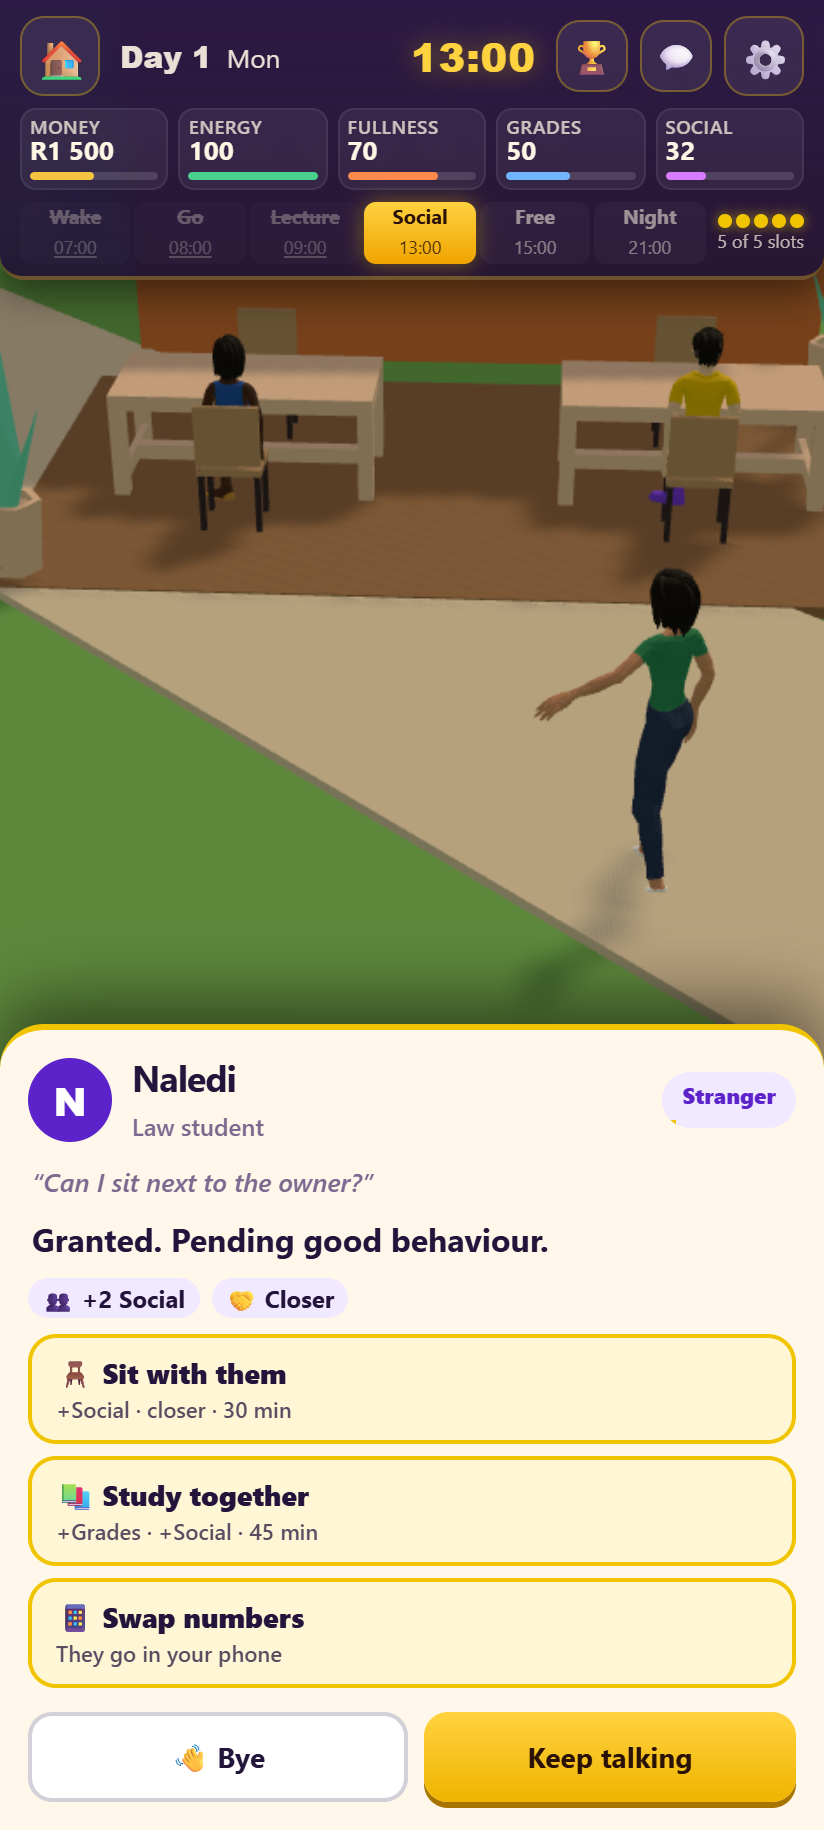
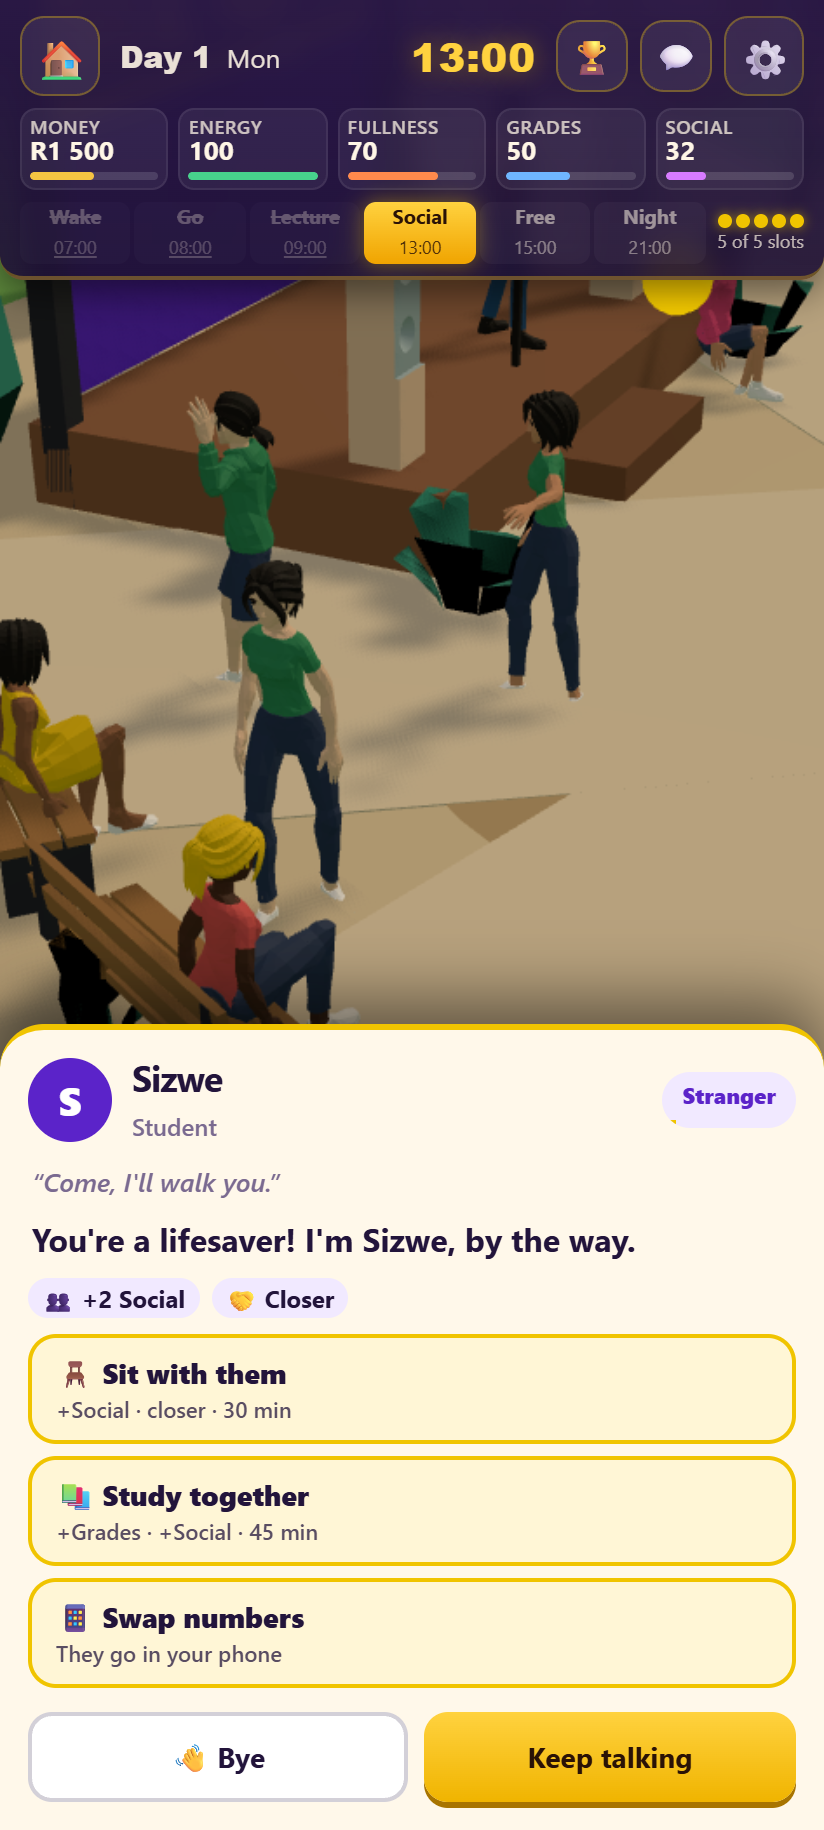
Sprint 1 journeys J1-J7 at normal speed (docs/sprints/sprint1); talk camera tries further round and closer in, and never falls back to a spot inside a building

Changed region(s): [[0.0, 0.1246, 1.0, 0.6852]]

diff --git a/src/world/scene.js b/src/world/scene.js
@@ -493,13 +493,16 @@ function overShoulder(from, to) {
   // Try a few heights and sides; take the first with a clear view of them
   // (an awning or a table can hide someone from high up).
   const tries = []
-  for (const deg of [34, 22, 50, 12]) for (const side of [0.5, -0.5, 1.1, -1.1, 1.6, -1.6]) tries.push([THREE.MathUtils.degToRad(deg), side])
-  for (const [tilt, side] of tries) {
+  // Further round them, and closer in, when buildings crowd the usual spots.
+  for (const k of [1, 0.7]) for (const deg of [34, 22, 50, 12]) for (const side of [0.5, -0.5, 1.1, -1.1, 1.6, -1.6, 2.3, -2.3, Math.PI]) tries.push([THREE.MathUtils.degToRad(deg), side, k])
+  let outside = null
+  for (const [tilt, side, k] of tries) {
     const ax = -dx / d
     const az = -dz / d
     const rx = Math.cos(side) * ax - Math.sin(side) * az
     const rz = Math.sin(side) * ax + Math.cos(side) * az
-    const pos = new THREE.Vector3(mx + rx * dist * Math.cos(tilt), 1 + dist * Math.sin(tilt), mz + rz * dist * Math.cos(tilt))
+    const r = dist * k
+    const pos = new THREE.Vector3(mx + rx * r * Math.cos(tilt), 1 + r * Math.sin(tilt), mz + rz * r * Math.cos(tilt))
     // Clear sight lines from the camera to both of them, head and knees (cast from
     // the camera: roofs and awnings are one-sided and only face upwards).
     const blocked = [from, to].some((p) => [1.6, 0.5].some((y) => {
@@ -511,8 +514,10 @@ function overShoulder(from, to) {
     // Never inside a building (rays cast from inside a wall don't see it).
     const inside = campus.layout.buildings.some((b) => pos.x > b.minX - 0.6 && pos.x < b.minX + b.w + 0.6 && pos.z > b.minZ - 0.6 && pos.z < b.minZ + b.d + 0.6 && pos.y < (b.h || 12) + 1)
     if (!blocked && !inside) { best = pos; break }
-    if (!best) best = pos
+    if (!inside && !outside) outside = pos
   }
+  // Nothing fully clear: the first spot outside any building, never one inside.
+  if (!best) best = outside || new THREE.Vector3(mx - dx / d * 6, 5, mz - dz / d * 6)
   // Aim at them, then tilt the view down so they sit about 30% from the top of the
   // screen (NDC y = +0.4): the conversation card covers the bottom half.
   const mid = new THREE.Vector3(mx, 0.9, mz)

diff --git a/tests/e2e/journeys.spec.js b/tests/e2e/journeys.spec.js
@@ -83,6 +83,9 @@ test('J1: a Law student from the gate follows the route to Law and walks into th
   await shot(page, 'J1-1')
   for (let taps = 0; taps < 60; taps++) {
     if (/#\/lecture/.test(page.url())) break
+    // A tap that lands on someone walking by opens a chat: walk away and carry on, like a player.
+    const leave = page.locator('.g-talk [data-act="talk-bye"]').last()
+    if (await leave.isVisible().catch(() => false)) { await leave.tap(); await page.waitForTimeout(800) }
     const target = await page.evaluate(() => {
       const r = window.mzansiRoute()
       if (!r) return null
@@ -130,7 +133,7 @@ test('J2: Map, tap the Cafeteria: the map closes, you walk there, the sheet open
 test('J4: at the Quad, talk to a student, "Sit with them": both sit on a bench and chat', async ({ page }) => {
   await student(page)
   await world(page, 'spawn=quad&j=4')
-  await tapPerson(page, 'naledi')
+  await tapPerson(page, 'x12') // a student hanging out by the benches
   const card = page.locator('.g-talk')
   await expect(card).toBeVisible({ timeout: 30000 })
   await page.waitForTimeout(1200)
